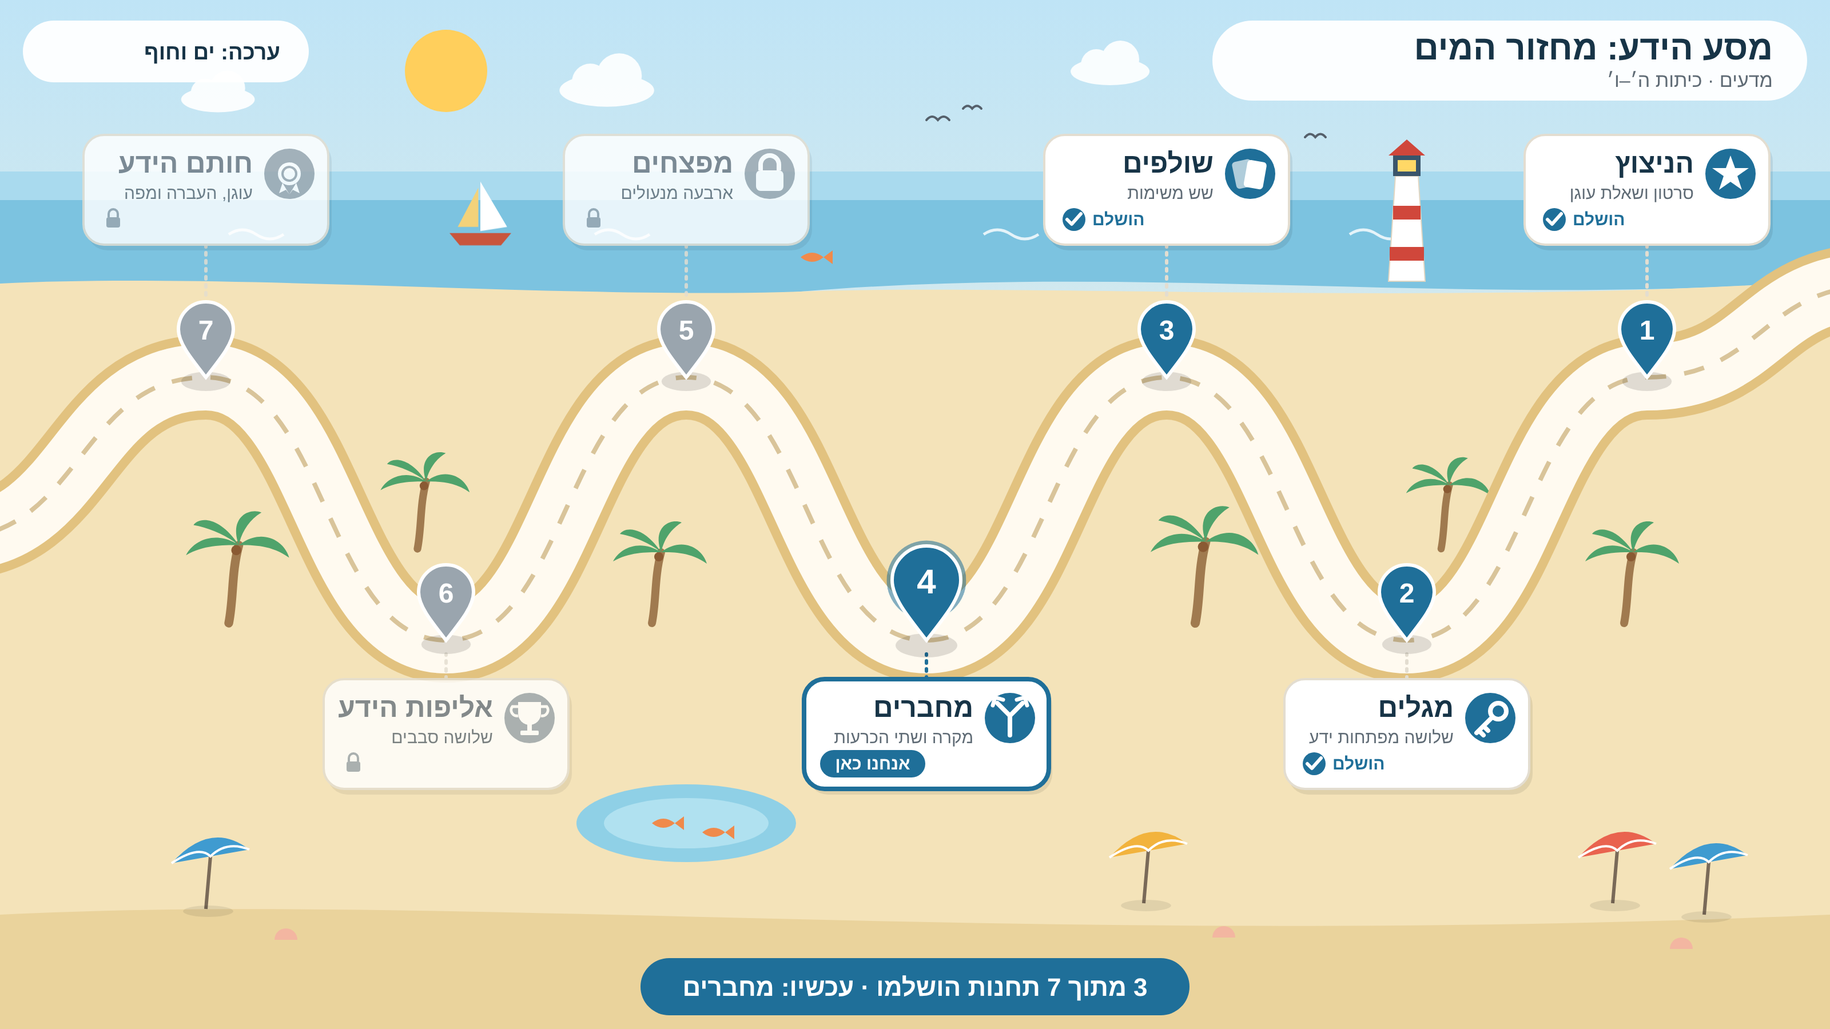
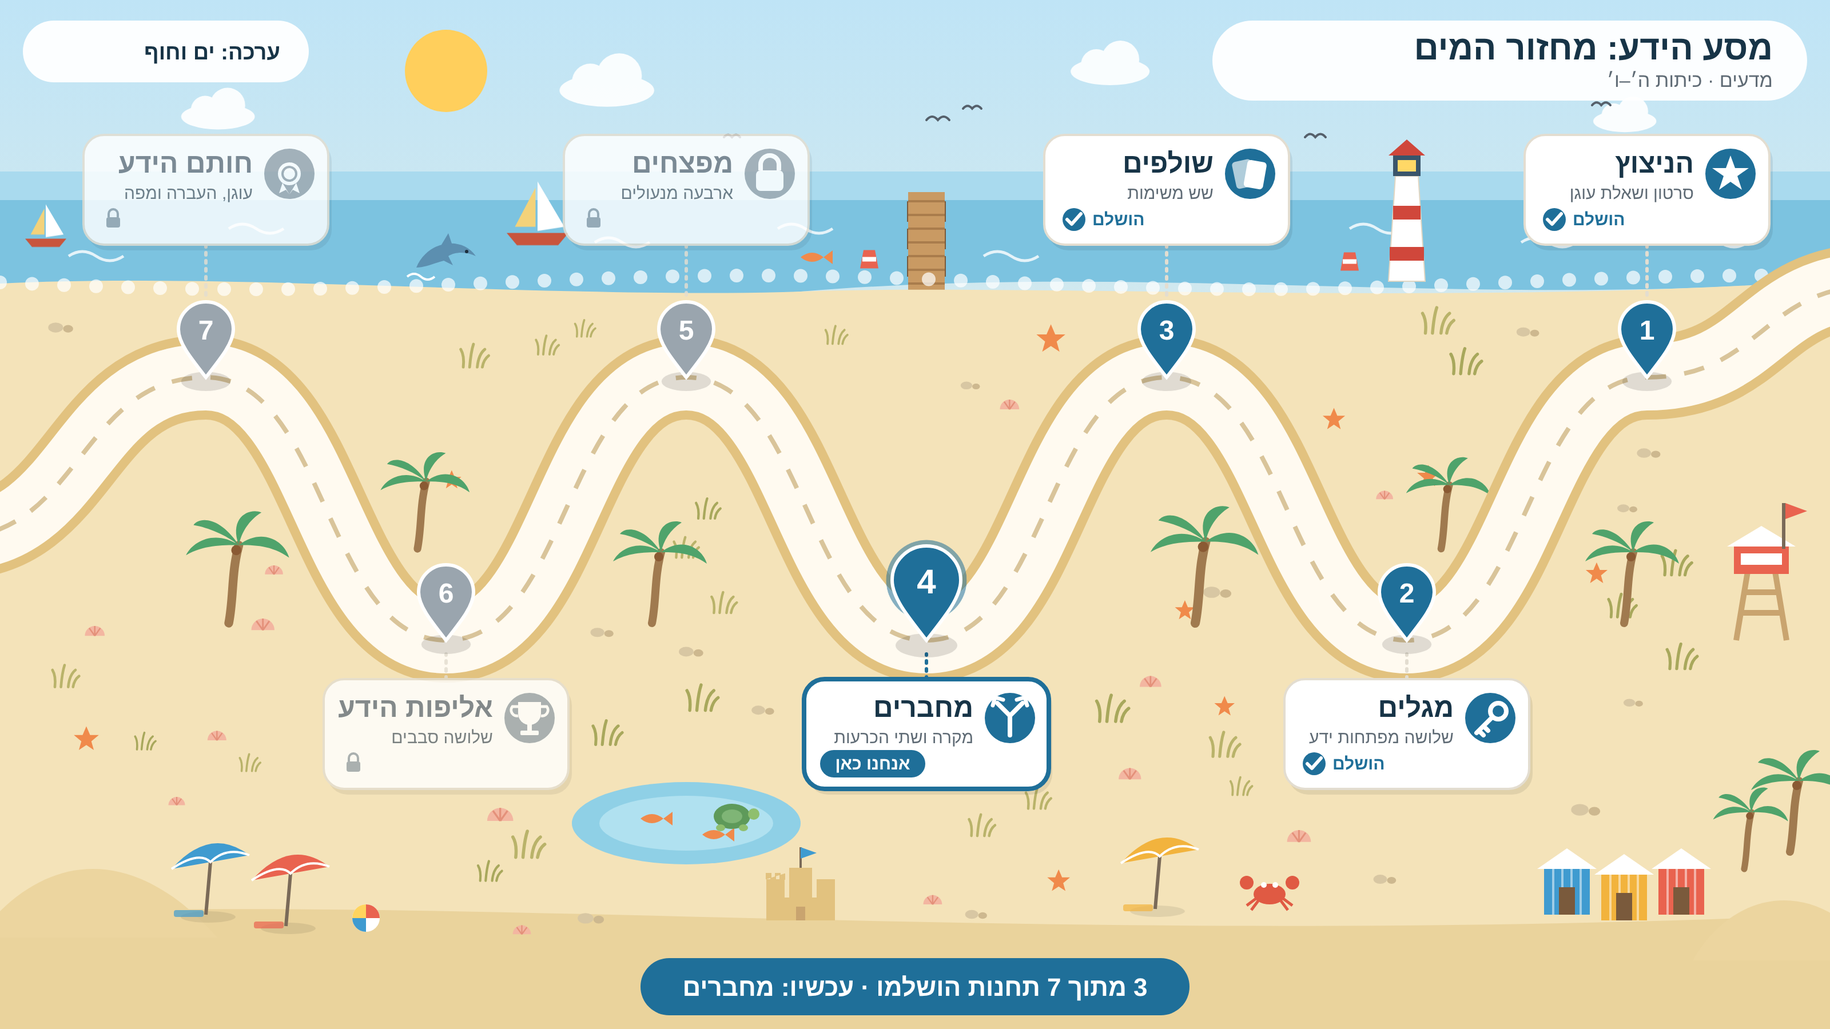
feat: richer scenery with road-aware detail scattering
Claude-Session: https://claude.ai/code/session_013ig8LCBDBhAd956LLZvbax

diff --git a/player/prototype/map-demo.html b/player/prototype/map-demo.html
@@ -153,24 +153,162 @@ function house(x, y, s = 1, wall = "#f2efe8", roof = "#c8553d") {
     <rect x="-18" y="-24" width="9" height="8" fill="#9fd0e8"/><rect x="9" y="-24" width="9" height="8" fill="#9fd0e8"/></g>`;
 }
 
+// ------------------------------------------------------------------ layout: what scenery must avoid
+
+const CARD_W = 214, CARD_H = 96;
+function cardRect(i) {
+  const p = POS[i], upper = i % 2 === 0;
+  return { x: p.x - CARD_W / 2, y: upper ? p.y - 70 - CARD_H - 46 : p.y + 34, w: CARD_W, h: CARD_H };
+}
+
+// Points along the road, sampled from the same curve that roadPath() draws.
+const ROAD_POINTS = (() => {
+  const pts = [{ x: 1640, y: 250 }, ...POS, { x: -40, y: 470 }], out = [];
+  for (let i = 1; i < pts.length; i++) {
+    const a = pts[i - 1], b = pts[i], half = (a.x - b.x) / 2;
+    const c1 = { x: a.x - half, y: a.y }, c2 = { x: b.x + half, y: b.y };
+    for (let k = 0; k <= 30; k++) {
+      const t = k / 30, u = 1 - t;
+      out.push({
+        x: u * u * u * a.x + 3 * u * u * t * c1.x + 3 * u * t * t * c2.x + t * t * t * b.x,
+        y: u * u * u * a.y + 3 * u * u * t * c1.y + 3 * u * t * t * c2.y + t * t * t * b.y,
+      });
+    }
+  }
+  return out;
+})();
+
+function blocked(x, y, extra = []) {
+  if (ROAD_POINTS.some(p => (p.x - x) ** 2 + (p.y - y) ** 2 < 62 ** 2)) return true;
+  const boxes = [
+    ...POS.map((_, i) => cardRect(i)),
+    ...POS.map(p => ({ x: p.x - 40, y: p.y - 95, w: 80, h: 110 })),       // pins
+    { x: 545, y: 825, w: 510, h: 75 },                                     // footer
+    ...extra,
+  ];
+  return boxes.some(b => x > b.x - 14 && x < b.x + b.w + 14 && y > b.y - 14 && y < b.y + b.h + 14);
+}
+
+// Deterministic pseudo-random numbers: the same scenery on every render.
+function rng(seed) {
+  let s = seed >>> 0;
+  return () => ((s = (s * 1664525 + 1013904223) >>> 0) / 2 ** 32);
+}
+
+// Scatter small details over the free ground, sorted top to bottom for depth.
+function scatter(drawers, count, seed, keepOut) {
+  const rand = rng(seed), items = [];
+  for (let tries = 0; items.length < count && tries < count * 40; tries++) {
+    const x = 20 + rand() * 1560, y = 275 + rand() * 545;
+    if (blocked(x, y, keepOut)) continue;
+    if (items.some(it => (it.x - x) ** 2 + (it.y - y) ** 2 < 34 ** 2)) continue;
+    items.push({ x, y, k: Math.floor(rand() * drawers.length), s: 0.8 + rand() * 0.5 });
+  }
+  return items.sort((a, b) => a.y - b.y).map(it => drawers[it.k](it.x, it.y, it.s)).join("");
+}
+
+// ------------------------------------------------------------------ small details
+
+const tuft = (c) => (x, y, s) => `<path transform="translate(${x} ${y}) scale(${s})"
+  d="M-8 0 Q-7 -9 -10 -14 M-3 0 Q-2 -12 0 -18 M3 0 Q4 -10 9 -14 M7 0 Q8 -6 12 -9" stroke="${c}" stroke-width="2.2" fill="none" stroke-linecap="round"/>`;
+const flowers = (x, y, s) => `<g transform="translate(${x} ${y}) scale(${s})">
+  ${tuft("#7fb069")(0, 2, 0.8)}<circle cx="-6" cy="-10" r="3.5" fill="#f2a7c3"/><circle cx="2" cy="-14" r="3.5" fill="#ffd45e"/>
+  <circle cx="8" cy="-8" r="3.5" fill="#ffffff"/><circle cx="2" cy="-14" r="1.3" fill="#d9822b"/></g>`;
+const bush = (c1, c2) => (x, y, s) => `<g transform="translate(${x} ${y}) scale(${s})">
+  <ellipse cx="0" cy="2" rx="22" ry="5" fill="#000" opacity=".08"/>
+  <circle cx="-11" cy="-8" r="11" fill="${c1}"/><circle cx="10" cy="-8" r="12" fill="${c1}"/><circle cx="0" cy="-15" r="13" fill="${c2}"/></g>`;
+const rock = (x, y, s) => `<g transform="translate(${x} ${y}) scale(${s})">
+  <path d="M-16 0 L-12 -11 L-2 -16 L10 -12 L16 0 Z" fill="#a9b1b7"/><path d="M-2 -16 L10 -12 L4 -6 Z" fill="#c7ced3"/></g>`;
+const mushroom = (x, y, s) => `<g transform="translate(${x} ${y}) scale(${s})">
+  <rect x="-3" y="-9" width="6" height="9" rx="2" fill="#f4ead6"/><path d="M-10 -8 a10 8 0 0 1 20 0 z" fill="#d9534f"/>
+  <circle cx="-3" cy="-12" r="1.6" fill="#fff"/><circle cx="4" cy="-11" r="1.4" fill="#fff"/></g>`;
+const shell = (x, y, s) => `<g transform="translate(${x} ${y}) scale(${s})">
+  <path d="M-9 0 a9 9 0 0 1 18 0 z" fill="#f3b6a1"/><path d="M0 0 L-5 -7 M0 0 L0 -9 M0 0 L5 -7" stroke="#e4917a" stroke-width="1.3"/></g>`;
+const starfish = (x, y, s) => `<polygon transform="translate(${x} ${y - 6}) scale(${s})"
+  points="0,-10 3,-3 10,-3 4,2 6,9 0,5 -6,9 -4,2 -10,-3 -3,-3" fill="#f08a4b"/>`;
+const pebble = (x, y, s) => `<g transform="translate(${x} ${y}) scale(${s})">
+  <ellipse cx="-5" cy="-3" rx="6" ry="4" fill="#d8c7a3"/><ellipse cx="5" cy="-2" rx="4" ry="3" fill="#cdb88f"/></g>`;
+
+// ------------------------------------------------------------------ larger props
+
+function cabin(x, y) {
+  return `<g transform="translate(${x} ${y})">
+    <g class="drift" opacity=".75"><circle cx="20" cy="-96" r="7" fill="#fff"/><circle cx="28" cy="-110" r="9" fill="#fff"/><circle cx="22" cy="-126" r="11" fill="#fff"/></g>
+    <rect x="14" y="-90" width="12" height="26" fill="#7d5a3c"/>
+    <rect x="-40" y="-44" width="80" height="44" fill="#b7814f"/>
+    ${[-36, -26, -16, -6].map(d => `<line x1="-40" x2="40" y1="${d}" y2="${d}" stroke="#9a6a3e" stroke-width="2"/>`).join("")}
+    <polygon points="-50,-42 0,-82 50,-42" fill="#7a3f2b"/><polygon points="-50,-42 0,-82 0,-74 -40,-42" fill="#8e4b33"/>
+    <rect x="-9" y="-28" width="18" height="28" fill="#5c3b25"/>
+    <rect x="-32" y="-34" width="14" height="12" fill="#ffe29a" stroke="#5c3b25" stroke-width="2"/>
+    <rect x="18" y="-34" width="14" height="12" fill="#ffe29a" stroke="#5c3b25" stroke-width="2"/></g>`;
+}
+function fence(x, y, n = 5) {
+  let s = `<g transform="translate(${x} ${y})">
+    <rect x="0" y="-20" width="${n * 18}" height="4" fill="#b08a5f"/><rect x="0" y="-10" width="${n * 18}" height="4" fill="#b08a5f"/>`;
+  for (let i = 0; i <= n; i++) s += `<rect x="${i * 18 - 3}" y="-28" width="6" height="28" rx="2" fill="#9a7650"/>`;
+  return s + "</g>";
+}
+function signpost(x, y) {
+  return `<g transform="translate(${x} ${y})"><rect x="-3" y="-56" width="6" height="56" fill="#8a6a4a"/>
+    <path d="M-34 -52 H22 L32 -44 L22 -36 H-34 Z" fill="#c99a63"/><path d="M34 -30 H-22 L-32 -22 L-22 -14 H34 Z" fill="#b8874f"/></g>`;
+}
+function deer(x, y, s = 1) {
+  return `<g transform="translate(${x} ${y}) scale(${s})" fill="#b97a45">
+    <ellipse cx="0" cy="-22" rx="20" ry="10"/><rect x="-16" y="-16" width="4" height="16"/><rect x="-8" y="-16" width="4" height="16"/>
+    <rect x="6" y="-16" width="4" height="16"/><rect x="13" y="-16" width="4" height="16"/>
+    <path d="M14 -28 L24 -44 L30 -40 L22 -26 Z"/><ellipse cx="29" cy="-44" rx="7" ry="5"/>
+    <path d="M27 -49 l-3 -9 M27 -52 l-6 -3 M31 -49 l3 -9 M31 -53 l6 -3" stroke="#8a5a33" stroke-width="2" fill="none"/>
+    <circle cx="-4" cy="-24" r="2" fill="#f5e6d0"/><circle cx="6" cy="-20" r="2" fill="#f5e6d0"/><circle cx="31" cy="-45" r="1.3" fill="#2b2b2b"/></g>`;
+}
+function rabbit(x, y, s = 1) {
+  return `<g transform="translate(${x} ${y}) scale(${s})" fill="#d9cfc3">
+    <ellipse cx="0" cy="-8" rx="11" ry="8"/><circle cx="10" cy="-15" r="6"/>
+    <ellipse cx="8" cy="-27" rx="2.5" ry="8"/><ellipse cx="13" cy="-27" rx="2.5" ry="8"/>
+    <circle cx="-11" cy="-9" r="3.5" fill="#fff"/><circle cx="12" cy="-16" r="1.2" fill="#2b2b2b"/></g>`;
+}
+function balloon(x, y) {
+  return `<g class="bob" style="transform-origin:${x}px ${y}px"><g transform="translate(${x} ${y})">
+    <path d="M0 -40 C 26 -40, 30 -10, 6 14 L-6 14 C -30 -10, -26 -40, 0 -40 Z" fill="#e9634f"/>
+    <path d="M0 -40 C 10 -40, 12 -10, 3 14 L-3 14 C -12 -10, -10 -40, 0 -40 Z" fill="#ffd45e"/>
+    <path d="M-6 14 L-5 24 M6 14 L5 24" stroke="#7a6a58" stroke-width="1.5"/><rect x="-7" y="24" width="14" height="10" rx="2" fill="#9a6a3e"/></g></g>`;
+}
+function logs(x, y) {
+  return `<g transform="translate(${x} ${y})">
+    ${[[-16, -8], [8, -8], [-4, -26]].map(([lx, ly]) => `<rect x="${lx - 22}" y="${ly}" width="44" height="16" rx="8" fill="#9a6a3e"/>
+      <circle cx="${lx + 22}" cy="${ly + 8}" r="8" fill="#d9b47e"/><circle cx="${lx + 22}" cy="${ly + 8}" r="4" fill="none" stroke="#b08a5f"/>`).join("")}</g>`;
+}
+function treeLine(y, c) {
+  let s = "";
+  for (let x = 0; x <= 1600; x += 26) s += `<circle cx="${x}" cy="${y + ((x * 7) % 9)}" r="${16 + ((x * 3) % 7)}" fill="${c}"/>`;
+  return s;
+}
+function mountain(x, base, w, h, c) {
+  const peak = { x: x, y: base - h };
+  return `<path d="M${x - w / 2} ${base} L${peak.x} ${peak.y} L${x + w / 2} ${base} Z" fill="${c}"/>
+    <path d="M${peak.x - w * 0.12} ${peak.y + h * 0.24} L${peak.x} ${peak.y} L${peak.x + w * 0.12} ${peak.y + h * 0.24}
+      L${peak.x + w * 0.05} ${peak.y + h * 0.19} L${peak.x} ${peak.y + h * 0.26} L${peak.x - w * 0.05} ${peak.y + h * 0.19} Z" fill="#fff"/>`;
+}
+
 // ------------------------------------------------------------------ scenery per theme
 
 function forestScenery(t) {
-  const mountains = `
-    <g opacity=".95">
-      <path d="M-20 250 L120 120 L230 230 L360 90 L520 250 Z" fill="#9cc7b9"/>
-      <path d="M300 250 L470 110 L640 250 Z" fill="#b9d6cb"/>
-      <path d="M1180 250 L1330 100 L1480 250 Z" fill="#9cc7b9"/>
-      <path d="M1380 250 L1520 130 L1640 250 Z" fill="#b9d6cb"/>
-      <path d="M330 92 L360 90 L378 108 L356 104 L342 112 Z" fill="#fff"/>
-      <path d="M1312 118 L1330 100 L1350 120 L1332 114 Z" fill="#fff"/>
-    </g>`;
+  const sky = `<g class="drift">${cloud(700, 70, 1)}${cloud(1080, 50, .8)}${cloud(260, 95, .7)}${cloud(1450, 105, .6)}</g>
+    <circle cx="${POCKET.sky[2].x}" cy="62" r="34" fill="#f7c95c"/>
+    ${bird(860, 110)}${bird(890, 100, .8)}${bird(1250, 95, .9)}${bird(560, 85, .7)}
+    ${balloon(1230, 150)}`;
+  const mountains = [
+    mountain(120, 250, 300, 150, "#a9cfc2"), mountain(330, 250, 340, 175, "#94c2b4"), mountain(560, 250, 280, 130, "#b6d7cc"),
+    mountain(820, 250, 320, 120, "#a9cfc2"), mountain(1060, 250, 300, 150, "#94c2b4"), mountain(1290, 250, 340, 165, "#a9cfc2"),
+    mountain(1520, 250, 300, 140, "#b6d7cc"),
+  ].join("");
   const ground = `<path d="M0 240 C 300 210, 600 260, 900 235 S 1400 215, 1600 240 L1600 900 L0 900 Z" fill="${t.ground}"/>
     <path d="M0 820 C 300 790, 700 840, 1000 810 S 1450 800, 1600 820 L1600 900 L0 900 Z" fill="${t.groundDark}"/>`;
   const lake = `<g transform="translate(1020 720)">
-      <ellipse rx="92" ry="34" fill="#8fcbe3"/><ellipse rx="70" ry="22" fill="#a9d9ec"/>
+      <ellipse rx="96" ry="36" fill="#8fcbe3"/><ellipse rx="74" ry="24" fill="#a9d9ec"/>
       <path d="M-40 -2 q8 -6 16 0 q8 6 16 0 M10 10 q8 -6 16 0 q8 6 16 0" stroke="#fff" stroke-width="2" fill="none"/>
-      <path d="M-18 4 q10 -8 20 0 q-10 8 -20 0z M2 4 l8 -6 v12z" fill="#e48a3b"/></g>`;
+      <path d="M-18 4 q10 -8 20 0 q-10 8 -20 0z M2 4 l8 -6 v12z" fill="#e48a3b"/>
+      <path d="M-70 -20 l0 -18 M-64 -18 l0 -14 M-58 -20 l0 -20" stroke="#5f8f4e" stroke-width="3" stroke-linecap="round"/>
+      <ellipse cx="-70" cy="-40" rx="3" ry="7" fill="#8a5a33"/><ellipse cx="-58" cy="-42" rx="3" ry="7" fill="#8a5a33"/></g>`;
   const pines = [
     pine(POCKET.midTop[0].x - 30, 520, 1.0), pine(POCKET.midTop[0].x + 20, 530, 1.2, "#2f7d4f"),
     pine(POCKET.midTop[1].x - 50, 525, 0.9), pine(POCKET.midTop[2].x + 10, 528, 1.15, "#2f7d4f"),
@@ -178,53 +316,110 @@ function forestScenery(t) {
     pine(POCKET.midLow[0].x + 35, 470, 1.0, "#2f7d4f"), pine(POCKET.midLow[1].x - 30, 470, 1.1),
     pine(POCKET.midLow[2].x + 30, 470, 1.0, "#2f7d4f"),
   ].join("");
-  const floor = [
-    roundTree(1360, 800, 1.1), roundTree(1520, 805, 0.9, "#5ea05a"),
+  const props = [
+    roundTree(1360, 800, 1.1), roundTree(1545, 760, 0.9, "#5ea05a"),
     roundTree(570, 790, 1.0), roundTree(640, 800, 1.2, "#5ea05a"),
     roundTree(150, 790, 1.1, "#5ea05a"), roundTree(225, 800, 0.9),
-    house(1440, 790, 1.15, "#f2efe8", "#a7563a"),
+    cabin(1500, 620), fence(1420, 650, 4), signpost(1555, 470),
+    house(1440, 800, 1.0, "#f2efe8", "#a7563a"),
+    deer(1170, 785, 0.9), rabbit(300, 805), rabbit(330, 812, 0.8), logs(700, 805),
   ].join("");
-  const sky = `<g class="drift">${cloud(700, 70, 1)}${cloud(1080, 50, .8)}${cloud(260, 60, .7)}</g>
-    <circle cx="${POCKET.sky[2].x}" cy="62" r="34" fill="#f7c95c"/>
-    ${bird(860, 110)}${bird(890, 100, .8)}${bird(1250, 150, .9)}`;
-  return `${sky}${mountains}${ground}${lake}${pines}${floor}`;
+  const keepOut = [
+    { x: 920, y: 680, w: 210, h: 80 }, { x: 1440, y: 480, w: 160, h: 180 }, { x: 1520, y: 400, w: 80, h: 80 },
+    { x: 1320, y: 740, w: 240, h: 80 }, { x: 530, y: 740, w: 220, h: 80 }, { x: 110, y: 740, w: 250, h: 80 },
+    { x: 1120, y: 720, w: 90, h: 70 },
+  ];
+  const details = scatter([tuft("#7fb069"), tuft("#6aa35a"), flowers, flowers, bush("#6fae5f", "#82be6e"), rock, mushroom],
+    70, 7, keepOut);
+  return `${sky}${mountains}${treeLine(244, "#7db58f")}${ground}${lake}${details}${pines}${props}`;
 }
 
 function beachScenery(t) {
   const sea = `<path d="M0 150 L1600 150 L1600 245 C 1300 270, 1000 230, 700 255 S 200 240, 0 250 Z" fill="#7cc3e0"/>
     <path d="M0 150 L1600 150 L1600 175 L0 175 Z" fill="#a9daee"/>
-    ${[200, 520, 860, 1180, 1480].map(x => `<path d="M${x} 205 q12 -8 24 0 q12 8 24 0" stroke="#fff" stroke-width="2.5" fill="none" opacity=".8"/>`).join("")}`;
-  const boat = (x, y, s) => `<g class="bob" style="transform-origin:${x}px ${y}px"><g transform="translate(${x} ${y}) scale(${s})">
-      <path d="M-30 0 L30 0 L20 12 L-20 12 Z" fill="#c8553d"/>
+    ${[200, 520, 860, 1180, 1480, 60, 680, 1330].map((x, i) => `<path d="M${x} ${200 + (i % 3) * 12} q12 -8 24 0 q12 8 24 0" stroke="#fff" stroke-width="2.5" fill="none" opacity=".8"/>`).join("")}`;
+  const boat = (x, y, s, c = "#c8553d") => `<g class="bob" style="transform-origin:${x}px ${y}px"><g transform="translate(${x} ${y}) scale(${s})">
+      <path d="M-30 0 L30 0 L20 12 L-20 12 Z" fill="${c}"/>
       <path d="M0 -2 L0 -50 L26 -6 Z" fill="#fff"/><path d="M-2 -6 L-2 -44 L-22 -6 Z" fill="#f3d27a"/></g></g>`;
   const fish = (x, y) => `<path d="M${x} ${y} q10 -8 20 0 q-10 8 -20 0z M${x + 20} ${y} l8 -6 v12z" fill="#f08a4b"/>`;
+  const dolphin = (x, y) => `<g transform="translate(${x} ${y})">
+      <path d="M-26 6 C -16 -18, 14 -22, 26 -4 C 18 -8, 8 -8, 2 -4 L6 4 L-2 0 C -10 2, -18 6, -26 6 Z" fill="#5c8fb0"/>
+      <path d="M-4 -14 L2 -24 L6 -12 Z" fill="#5c8fb0"/><circle cx="18" cy="-8" r="1.5" fill="#1d2f3d"/>
+      <path d="M-34 14 q6 -5 12 0 q6 5 12 0" stroke="#fff" stroke-width="2" fill="none"/></g>`;
+  const buoy = (x, y) => `<g class="bob" style="transform-origin:${x}px ${y}px"><g transform="translate(${x} ${y})">
+      <path d="M-8 0 L8 0 L5 -16 L-5 -16 Z" fill="#e9634f"/><rect x="-6" y="-10" width="12" height="4" fill="#fff"/></g></g>`;
+  const foam = (() => {
+    let d = "";
+    for (let x = 0; x <= 1600; x += 28) {
+      const y = 247 + 6 * Math.sin(x / 140);
+      d += `<circle cx="${x}" cy="${y}" r="6" fill="#fff" opacity=".7"/>`;
+    }
+    return d;
+  })();
+  const pier = `<g transform="translate(${POCKET.sky[1].x} 0)">
+      ${[176, 200, 224].map(y => `<rect x="-17" y="${y}" width="6" height="18" fill="#7a5a3c"/><rect x="11" y="${y}" width="6" height="18" fill="#7a5a3c"/>`).join("")}
+      <rect x="-16" y="168" width="32" height="88" fill="#c99a63"/>
+      ${[176, 188, 200, 212, 224, 236, 248].map(y => `<line x1="-16" x2="16" y1="${y}" y2="${y}" stroke="#a97c4c" stroke-width="2"/>`).join("")}</g>`;
   const ground = `<path d="M0 248 C 200 238, 500 262, 700 255 S 1300 268, 1600 245 L1600 900 L0 900 Z" fill="${t.ground}"/>
-    <path d="M0 800 C 400 780, 900 830, 1600 800 L1600 900 L0 900 Z" fill="${t.groundDark}"/>`;
+    <path d="M0 800 C 400 780, 900 830, 1600 800 L1600 900 L0 900 Z" fill="${t.groundDark}"/>
+    <path d="M-20 820 C 40 740, 120 740, 190 820 Z" fill="#ecd59f"/><path d="M1480 840 C 1520 770, 1600 770, 1640 840 Z" fill="#ecd59f"/>`;
   const lighthouse = `<g transform="translate(${POCKET.sky[0].x} 246)">
       <polygon points="-16,0 16,0 10,-92 -10,-92" fill="#fff" stroke="#e1d6c2"/>
       <rect x="-15" y="-30" width="30" height="12" fill="#d0473b"/><rect x="-12" y="-66" width="24" height="12" fill="#d0473b"/>
       <rect x="-12" y="-110" width="24" height="18" fill="#3a556b"/><rect x="-8" y="-106" width="16" height="10" fill="#ffd866"/>
       <polygon points="-16,-110 16,-110 0,-124" fill="#d0473b"/></g>`;
   const umbrella = (x, y, c) => `<g transform="translate(${x} ${y})">
+      <ellipse cx="2" cy="2" rx="24" ry="5" fill="#000" opacity=".08"/>
       <line x1="0" y1="0" x2="4" y2="-46" stroke="#7a6a58" stroke-width="3"/>
       <path d="M-30 -40 Q4 -78 38 -52 Z" fill="${c}"/><path d="M-30 -40 Q-6 -56 4 -46 Q18 -60 38 -52" fill="none" stroke="#fff" stroke-width="2"/>
-      <ellipse cx="2" cy="2" rx="22" ry="5" fill="#000" opacity=".08"/></g>`;
-  const shell = (x, y) => `<path d="M${x} ${y} a10 10 0 0 1 20 0 z" fill="#f3b6a1"/>`;
-  const lagoon = `<g transform="translate(600 720)"><ellipse rx="96" ry="34" fill="#8fd0e6"/><ellipse rx="72" ry="22" fill="#b0e1f0"/>${fish(-30, 0)}${fish(14, 8)}</g>`;
-  const sky = `<g class="drift">${cloud(560, 70, .9)}${cloud(1000, 55, .75)}${cloud(220, 80, .7)}</g>
+      <rect x="-28" y="-4" width="26" height="6" rx="2" fill="${c}" opacity=".7"/></g>`;
+  const hut = (x, y, c) => `<g transform="translate(${x} ${y})">
+      <rect x="-20" y="-40" width="40" height="40" fill="${c}"/>
+      ${[-12, -4, 4, 12].map(d => `<line x1="${d}" x2="${d}" y1="-40" y2="0" stroke="#fff" stroke-width="2" opacity=".5"/>`).join("")}
+      <polygon points="-26,-40 0,-58 26,-40" fill="#fff"/><rect x="-7" y="-24" width="14" height="24" fill="#7a5a3c"/></g>`;
+  const tower = (x, y) => `<g transform="translate(${x} ${y})">
+      <path d="M-22 0 L-12 -60 M22 0 L12 -60 M-18 -24 L18 -24 M-15 -42 L15 -42" stroke="#c9a46f" stroke-width="5" fill="none"/>
+      <rect x="-24" y="-82" width="48" height="24" fill="#e9634f"/><rect x="-18" y="-76" width="36" height="10" fill="#fff"/>
+      <polygon points="-30,-82 0,-100 30,-82" fill="#fff"/><rect x="18" y="-120" width="3" height="40" fill="#7a6a58"/>
+      <path d="M21 -120 L40 -113 L21 -106 Z" fill="#e9634f"/></g>`;
+  const castle = (x, y) => `<g transform="translate(${x} ${y})" fill="#e2c27f">
+      <rect x="-26" y="-20" width="52" height="20"/><rect x="-30" y="-36" width="16" height="36"/><rect x="14" y="-36" width="16" height="36"/>
+      <rect x="-10" y="-46" width="20" height="46"/><path d="M-30 -36 v-5 h4 v5 h4 v-5 h4 v5 h4 v-5" stroke="#e2c27f"/>
+      <rect x="-4" y="-12" width="8" height="12" fill="#c9a46f"/><line x1="0" y1="-46" x2="0" y2="-64" stroke="#7a6a58" stroke-width="2"/>
+      <path d="M0 -64 L14 -59 L0 -54 Z" fill="#3f9bd0"/></g>`;
+  const crab = (x, y) => `<g transform="translate(${x} ${y})" fill="#e05a43">
+      <ellipse cx="0" cy="-8" rx="14" ry="9"/><path d="M-12 -4 l-8 6 M-10 -2 l-6 8 M12 -4 l8 6 M10 -2 l6 8" stroke="#e05a43" stroke-width="2.5"/>
+      <circle cx="-20" cy="-18" r="6"/><circle cx="20" cy="-18" r="6"/><circle cx="-5" cy="-16" r="2.5" fill="#fff"/><circle cx="5" cy="-16" r="2.5" fill="#fff"/></g>`;
+  const turtle = (x, y) => `<g transform="translate(${x} ${y})">
+      <ellipse cx="0" cy="0" rx="16" ry="11" fill="#5e9a5a"/><ellipse cx="0" cy="0" rx="9" ry="6" fill="#7fb576"/>
+      <circle cx="19" cy="-2" r="5" fill="#8fbf6e"/><ellipse cx="-10" cy="10" rx="4" ry="3" fill="#8fbf6e"/><ellipse cx="10" cy="10" rx="4" ry="3" fill="#8fbf6e"/></g>`;
+  const ball = (x, y) => `<g transform="translate(${x} ${y - 12})"><circle r="12" fill="#fff"/>
+      <path d="M0 -12 A12 12 0 0 1 12 0 L0 0 Z" fill="#e9634f"/><path d="M0 12 A12 12 0 0 1 -12 0 L0 0 Z" fill="#3f9bd0"/>
+      <path d="M-12 0 A12 12 0 0 1 0 -12 L0 0 Z" fill="#ffd45e"/></g>`;
+  const lagoon = `<g transform="translate(600 720)"><ellipse rx="100" ry="36" fill="#8fd0e6"/><ellipse rx="76" ry="24" fill="#b0e1f0"/>
+      ${fish(-40, -4)}${fish(14, 10)}${turtle(40, -6)}</g>`;
+  const sky = `<g class="drift">${cloud(560, 70, .9)}${cloud(1000, 55, .75)}${cloud(220, 95, .7)}${cloud(1450, 100, .6)}</g>
     <circle cx="${POCKET.sky[2].x}" cy="62" r="36" fill="#ffcf5c"/>
-    ${bird(820, 105)}${bird(850, 95, .8)}${bird(1150, 120, .9)}`;
+    ${bird(820, 105)}${bird(850, 95, .8)}${bird(1150, 120, .9)}${bird(640, 120, .7)}${bird(1400, 92, .8)}`;
   const palms = [
     palm(POCKET.midTop[0].x - 20, 545, 1.0), palm(POCKET.midTop[1].x + 25, 545, 1.15),
     palm(POCKET.midTop[2].x - 30, 545, 1.0), palm(POCKET.midTop[3].x + 20, 545, 1.1),
     palm(POCKET.midLow[0].x + 30, 480, .9), palm(POCKET.midLow[2].x - 25, 480, .95),
+    palm(1565, 745, 1.0), palm(1525, 760, 0.8),
   ].join("");
-  const floor = [
-    umbrella(1410, 790, "#e9634f"), umbrella(1490, 800, "#3f9bd0"),
-    umbrella(1000, 790, "#f2b33d"), umbrella(180, 795, "#3f9bd0"),
-    shell(1060, 820), shell(240, 822), shell(1460, 830),
+  const props = [
+    hut(1370, 800, "#3f9bd0"), hut(1420, 805, "#f2b33d"), hut(1470, 800, "#e9634f"),
+    tower(1540, 560), umbrella(1010, 795, "#f2b33d"), umbrella(180, 800, "#3f9bd0"), umbrella(250, 810, "#e9634f"),
+    castle(700, 805), crab(1110, 790), ball(320, 815),
   ].join("");
-  return `${sky}${sea}${boat(420, 205, .9)}${boat(1060, 200, .7)}${fish(700, 225)}${ground}${lighthouse}${lagoon}${palms}${floor}`;
+  const keepOut = [
+    { x: 490, y: 680, w: 220, h: 80 }, { x: 1330, y: 740, w: 170, h: 80 }, { x: 1490, y: 400, w: 110, h: 380 },
+    { x: 960, y: 730, w: 100, h: 80 }, { x: 140, y: 740, w: 200, h: 80 }, { x: 660, y: 740, w: 90, h: 80 },
+    { x: 1080, y: 760, w: 60, h: 40 },
+  ];
+  const details = scatter([shell, shell, starfish, pebble, tuft("#b9b36a"), tuft("#a8a85c")], 60, 11, keepOut);
+  return `${sky}${sea}${dolphin(390, 228)}${boat(470, 205, .9)}${boat(1060, 200, .7, "#3f9bd0")}${boat(40, 210, .6)}
+    ${buoy(760, 236)}${buoy(1180, 238)}${fish(700, 225)}${pier}${ground}${foam}${lighthouse}${lagoon}${details}${palms}${props}`;
 }
 
 // ------------------------------------------------------------------ station icons (white on a coloured disc)
@@ -259,8 +454,7 @@ function stationMarkup(t, i, current) {
   const pinColor = state === "next" ? muted : t.accent;
 
   // Card above upper stations, below lower ones; a short stem links it to the pin.
-  const cw = 214, ch = 96;
-  const cx = p.x - cw / 2, cy = upper ? p.y - 70 - ch - 46 : p.y + 34;
+  const { x: cx, y: cy, w: cw, h: ch } = cardRect(i);
   const stemY1 = upper ? cy + ch : cy, stemY2 = upper ? p.y - 70 : p.y + 12;
   const cardStroke = state === "now" ? t.accent : "#e3ddd0";
   const cardOpacity = state === "next" ? 0.82 : 1;
